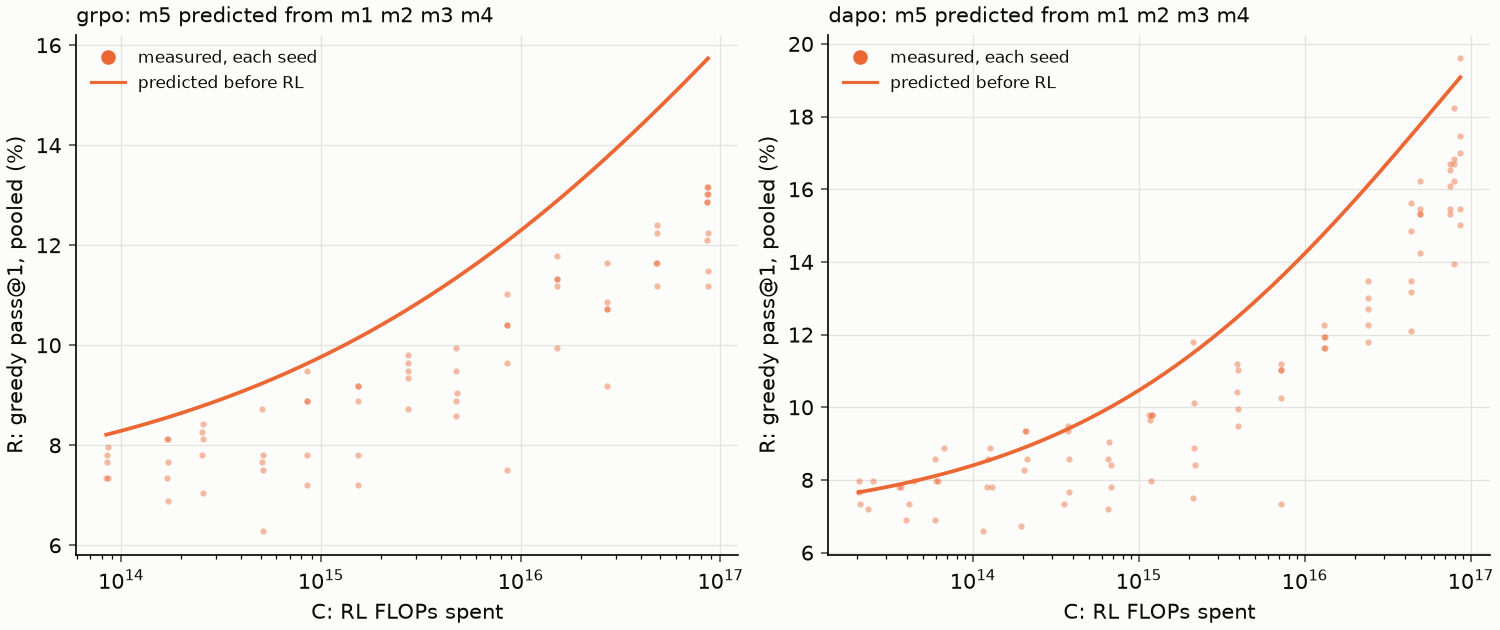
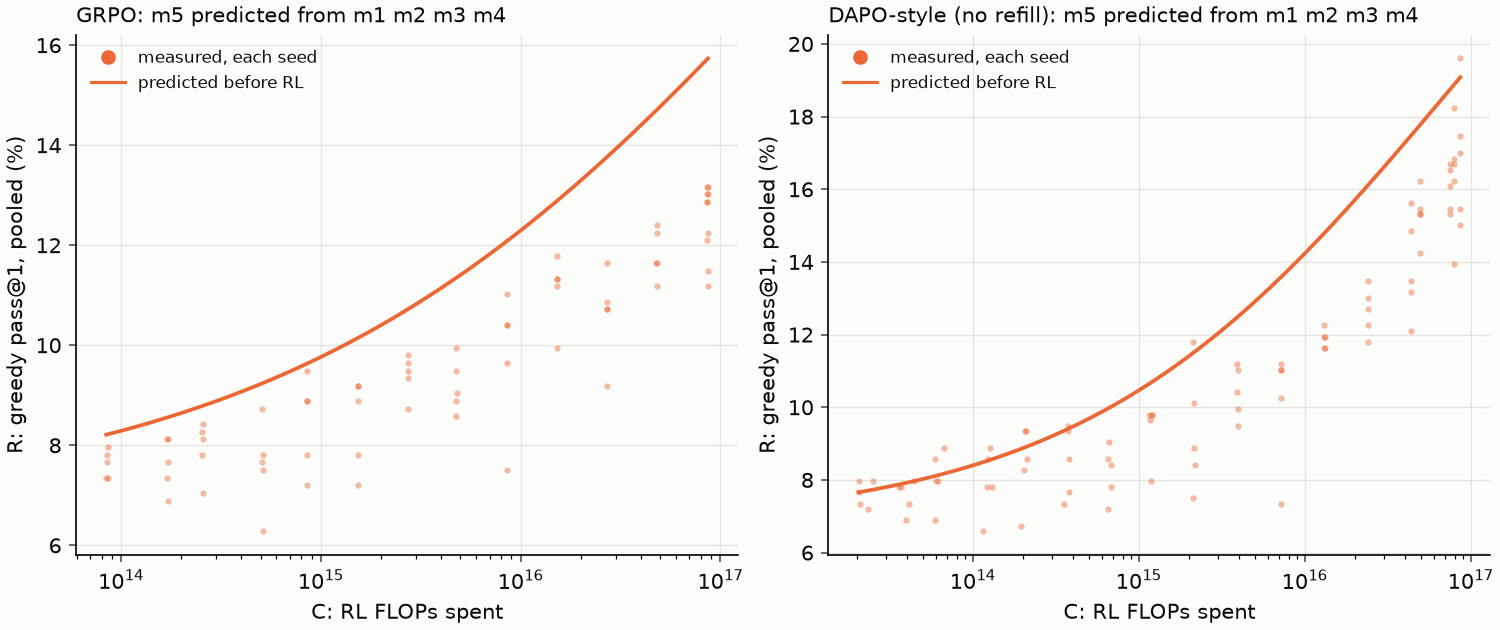
m4s24: Write-up 2 names its DAPO a variant; backtest, power and bootstrap corrections

Changed region(s): [[0.552, 0.0, 0.9507, 0.0603], [0.0307, 0.0, 0.3373, 0.0603]]

diff --git a/src/scalelab/analysis/scalingreport.py b/src/scalelab/analysis/scalingreport.py
@@ -27,6 +27,14 @@ MEASURE_NAMES = {"samples": "samples", "flops": "FLOPs", "seconds": "hours"}
 CURVE_POINTS = 200  # where a curve is drawn, evenly spaced in log C
 R_LABEL = "R: greedy pass@1, pooled (%)"
 C_LABEL = "C: RL FLOPs spent"
+# m4s24: what the figures call each algorithm. Our dapo drops the groups whose answers all
+# score the same without sampling more to refill the batch, as the DAPO paper does: a variant.
+ALGO_NAMES = {
+    "grpo": "GRPO",
+    "dr_grpo": "Dr. GRPO",
+    "rloo": "RLOO",
+    "dapo": "DAPO-style (no refill)",
+}
 
 
 @dataclass(frozen=True)
@@ -39,6 +47,11 @@ class Study:
     names: Mapping[int, str]  # N -> the size's name
     family: Family
     held_out: Family
+
+
+def algo_name(algo: str) -> str:
+    """The figures' name for an algorithm preset; an unknown one keeps its own."""
+    return ALGO_NAMES.get(algo, algo)
 
 
 def by_size(runs: Sequence[SizedRun]) -> dict[int, list[SizedRun]]:
@@ -86,7 +99,7 @@ def curves_figure(studies: Sequence[Study]) -> Figure:
             color = shade(index, len(groups))
             draw_size(panel, study.family, runs, color)
             handles.append(Line2D([], [], color=color, marker="o", label=study.names[params]))
-        label(panel, f"{study.algo}: one family through {len(study.runs)} runs")
+        label(panel, f"{algo_name(study.algo)}: one family through {len(study.runs)} runs")
         panel.legend(handles=handles, frameon=False, labelcolor=INK, fontsize=8)
     return figure
 
@@ -100,7 +113,7 @@ def backtest_figure(studies: Sequence[Study]) -> Figure:
         largest = max(groups)
         draw_size(panel, study.held_out, groups[largest], ORANGE)
         smaller = " ".join(study.names[params] for params in groups if params != largest)
-        label(panel, f"{study.algo}: {study.names[largest]} predicted from {smaller}")
+        label(panel, f"{algo_name(study.algo)}: {study.names[largest]} predicted from {smaller}")
         handles = [
             Line2D([], [], color=ORANGE, marker="o", linestyle="", label="measured, each seed"),
             Line2D([], [], color=ORANGE, label="predicted before RL"),
@@ -146,7 +159,7 @@ def write_report(
 ) -> list[Path]:
     """report scaling's three figures in `out`; the versus one compares the second study's
     algorithm with the first's."""
-    base, other = (study.algo for study in studies)
+    base, other = (algo_name(study.algo) for study in studies)
     return [
         save_figure(curves_figure(studies), out / CURVES_FIGURE),
         save_figure(backtest_figure(studies), out / BACKTEST_FIGURE),

diff --git a/tests/unit/test_scalingreport.py b/tests/unit/test_scalingreport.py
@@ -9,6 +9,7 @@ from scalelab.analysis.scalingreport import (
     SIZE_SHADES,
     VERSUS_FIGURE,
     Study,
+    algo_name,
     by_size,
     shade,
     write_report,
@@ -58,3 +59,10 @@ def test_every_figure_is_saved_as_a_png(tmp_path: Path) -> None:
 def test_the_report_compares_exactly_two_algorithms(tmp_path: Path) -> None:
     with pytest.raises(ValueError):
         write_report([study("grpo")], {}, tmp_path)
+
+
+def test_the_figures_call_our_dapo_a_variant() -> None:
+    # m4s24: our dapo never refills the batch it filtered, so it is not the paper's DAPO
+    assert algo_name("dapo") == "DAPO-style (no refill)"
+    assert algo_name("grpo") == "GRPO"
+    assert algo_name("ppo") == "ppo"  # a preset without a name keeps its own

diff --git a/docs/writeups/02-scaling.md b/docs/writeups/02-scaling.md
@@ -9,15 +9,20 @@ ScaleLab M4, 2026-11-17. Figures: `scalelab report scaling` (see Reproduce).
   per size, and fitted **one family of sigmoid curves in compute** whose three parameters
   move linearly in log size. It fits all 50 runs to **1.4 pp (GRPO) and 1.6 pp (DAPO) rms**.
 - **The fit pins R where it was measured, not where it is going.** A seed bootstrap gives
-  R at each size's last compute to within about 1 pp, but the ceiling A spans about 50 pp
-  from m2 or m3 up (GRPO m3-m5 roughly 30-85%).
-- **Backtest: one rung up works, the next does not.** Fitted on m1-m3, the family predicts
-  m4 from its starting accuracy alone to 1.5 pp (GRPO) and 1.2 pp (DAPO) rms. Fitted on
-  m1-m4, it over-predicts m5 by about 3 pp at the end of the run (GRPO 15.7% predicted,
-  12.2% measured; DAPO 19.1% v 16.9%), outside the seed bootstrap's interval.
-- **DAPO beats GRPO at equal FLOPs (+3.6 to +7.0 pp at every size), and not at equal
-  samples** (-0.6 to +1.6 pp, every interval spans zero). Its win is the extra samples our
-  FLOP accounting lets it draw, not a better update per sample.
+  R at each size's last compute to within about 1 pp, but the ceiling A spans about 45 to
+  55 pp from m3 up (GRPO m3-m5 roughly 26-82%).
+- **Backtest: both held-out sizes miss at the end.** Fitted on m1-m3, the family predicts
+  m4 from its starting accuracy alone to 1.5 pp (GRPO) and 1.2 pp (DAPO) rms over its
+  trajectory, but under-predicts its last grading (GRPO 19.2% v 21.5% measured, DAPO 24.3%
+  v 25.1%). Fitted on m1-m4, it over-predicts m5 by about 3 pp at the end of the run (GRPO
+  15.7% v 12.2%, DAPO 19.1% v 16.9%). All four measured values fall outside the 95%
+  bootstrap interval for the predicted mean, which resamples seeds only: it is not a
+  predictive interval, and it leaves out the form's own uncertainty.
+- **DAPO beats GRPO at equal FLOPs (+3.6 to +7.0 pp at every size); at equal samples no
+  difference is detected** (-0.6 to +1.6 pp, every interval spans zero, but they allow up
+  to +3.3 pp). Equal FLOPs buys DAPO 2.2-3.4x the steps. Our DAPO is a variant (it never
+  refills the batch it filters: see Setup), and it differs from GRPO in five ways at once,
+  so this doesn't isolate any one of them.
 - None of this was pre-registered. The plan was to commit a prediction for two larger
   sizes before running them; those runs were cut, and the backtests stand in for them.
 
@@ -40,15 +45,24 @@ ScaleLab M4, 2026-11-17. Figures: `scalelab report scaling` (see Reproduce).
   **R** = greedy pass@1 over the two frozen eval sets pooled (653 problems). **R_0** = R
   before RL. At 20M tokens R_0 *falls* with size: a fixed token budget undertrains the
   bigger models.
-- **RL.** GRPO (clip 0.2, KL 0.04 to the warm start) and DAPO (clip 0.2/0.28, token-mean
-  loss, no KL, groups whose 8 answers all score the same dropped). 64 prompts x 8 answers a
-  step, constant lr 1e-5, fp16, one T4. Rewards: 1 for the right answer, 0 otherwise.
+- **RL.** GRPO (clip 0.2, KL 0.04 to the warm start, each answer's loss averaged, then
+  averaged over answers) and a DAPO-style variant (clip 0.2/0.28, token-mean loss, no KL, a
+  soft penalty for overlong answers, groups whose 8 answers all score the same dropped). The
+  DAPO paper samples more until the batch is full again; ours does not, so each update
+  learns from the groups that survive (about half at m1, a quarter at m5). "DAPO" below
+  means this variant. 64 prompts x 8 answers a step, constant lr 1e-5, fp16, one T4.
+  Rewards: 1 for the right answer, 0 otherwise.
 - **Budget.** Each size gets the FLOPs of 1000 GRPO steps as the cost model prices them
   (`rl.flops`: m1 1.3e15 to m5 8.7e16). A pilot at m1, m3 and m5 showed that none reached
   90% of its fitted ceiling by step 1000. GRPO runs about 1010-1020 steps on that budget;
-  DAPO 2233-3446, because a dropped group skips log-probs and training and is not billed.
+  DAPO 2233-3446: a dropped group's generation is billed, but it skips log-probs and
+  training, and DAPO has no KL reference pass (at m5 a DAPO step costs 2.5e13 FLOPs, a
+  GRPO step 8.5e13).
 - **Seeds.** A 10-seed study at m2 and m4 measured the seed spread of final R (sd 0.57 and
-  1.02 pp): five seeds give at least 88% power to see a 3 pp difference.
+  1.02 pp). Power: 20 times a size, the 10 seeds split at random into two arms of five,
+  matched in order as `versus` matches seed s with seed s, and the seeds-and-problems
+  bootstrap run on the per-problem differences. Mean 95% half-width 1.67 pp (m2), 1.87 pp
+  (m4); with SE = half-width / 1.96, power at 3 pp = Phi(3 / SE - 1.96): 94% and 88%.
 - **C** = the RL FLOPs a run has spent (sampling, log-probs, training), summed over steps.
   Gradings run at steps 0, 1, 2, 3, 6, 10, 18, 32, 56, 100 and every 100 after.
 
@@ -78,11 +92,11 @@ Six numbers fit every grading after step 0 of every run, seeds pooled, by least 
 | GRPO final R, measured | 41.2% | 26.9% | 23.1% | 21.5% | 12.2% |
 | GRPO, fitted | 41.0% | 27.3% | 23.0% | 20.0% | 14.6% |
 | GRPO A | 49.3% | 41.3% | 36.7% | 33.4% | 30.9% |
-| GRPO A, 95% interval | 45-76% | 38-73% | 33-82% | 29-87% | 26-85% |
+| GRPO A, 95% interval | 46-76% | 38-71% | 33-78% | 29-82% | 26-69% |
 | DAPO final R, measured | 46.8% | 34.0% | 29.2% | 25.1% | 16.9% |
 | DAPO, fitted | 46.8% | 35.1% | 28.5% | 24.1% | 16.8% |
 | DAPO A | 60.3% | 84.4% | 92.1% | 95.3% | 97.0% |
-| DAPO A, 95% interval | 55-68% | 64-92% | 52-97% | 42-99% | 35-99% |
+| DAPO A, 95% interval | 56-69% | 69-91% | 58-97% | 48-98% | 40-99% |
 
 *Intervals: 200 seed bootstraps (resample each size's seeds, refit). Residuals: GRPO 1.39
 pp rms over 350 gradings, DAPO 1.56 pp over 410.*
@@ -106,21 +120,22 @@ measured R_0 alone (`scalelab backtest`), and compare with its five seeds.
 
 | fitted on, predicted | algorithm | fit rms | held-out rms | bias | last R predicted [95%] | measured |
 |---|---|---:|---:|---:|---:|---:|
-| m1-m3, m4 | GRPO | 1.39 pp | 1.46 pp | -0.85 pp | | 21.5% |
-| m1-m3, m4 | DAPO | 1.66 pp | 1.23 pp | -0.02 pp | | 25.1% |
-| m1-m4, m5 | GRPO | 1.32 pp | 2.22 pp | +1.92 pp | 15.7% [15.5, 16.0] | 12.2% |
-| m1-m4, m5 | DAPO | 1.56 pp | 2.37 pp | +1.84 pp | 19.1% [18.6, 19.4] | 16.9% |
+| m1-m3, m4 | GRPO | 1.39 pp | 1.46 pp | -0.85 pp | 19.2% [18.9, 19.6] | 21.5% |
+| m1-m3, m4 | DAPO | 1.66 pp | 1.23 pp | -0.02 pp | 24.3% [23.7, 24.9] | 25.1% |
+| m1-m4, m5 | GRPO | 1.32 pp | 2.22 pp | +1.92 pp | 15.7% [15.4, 16.0] | 12.2% |
+| m1-m4, m5 | DAPO | 1.56 pp | 2.37 pp | +1.84 pp | 19.1% [17.9, 19.4] | 16.9% |
 
 *Held-out rms over every grading of the predicted size's five seeds; bias = predicted
 minus measured, averaged. The interval resamples the fitted sizes' seeds only, not the
 form, so it is narrow.*
 
-The m4 prediction is as good as the fit itself. The m5 prediction starts close (+0.6 pp at
-step 1 for GRPO) and drifts high as compute grows (+2.3 pp at step 100, +3.5 pp at the
-end). m4 to m5 is a smaller step in size (1.9x) than m3 to m4 (2.2x), so distance is not
-the cause. Our reading: m5 is the most undertrained warm start (lowest R_0, highest N per
-token), and nothing in the family knows about warm-start tokens. A prediction for larger
-models from this ladder would have been worse, not better.
+Over its whole trajectory the m4 prediction is as good as the fit itself, but at the last
+grading it falls short by 2.3 pp (GRPO) and 0.8 pp (DAPO), outside the seed interval. The
+m5 prediction starts close (+0.6 pp at step 1 for GRPO) and drifts high as compute grows
+(+2.3 pp at step 100, +3.5 pp at the end). m4 to m5 is a smaller step in size (1.9x) than
+m3 to m4 (2.2x), so distance is not the cause. Our hypothesis: m5 is the most undertrained
+warm start (lowest R_0, highest N per token), and nothing in the family knows about
+warm-start tokens. It is not tested here: one warm start a size, no token budget varied.
 
 ## DAPO against GRPO: what "equal" means
 
@@ -134,13 +149,19 @@ GRPO's final measure, then bootstraps the per-problem differences over seeds and
 | equal FLOPs | +5.6 [2.5, 8.6] | +7.0 [4.8, 9.3] | +6.1 [4.0, 8.2] | +3.6 [1.3, 6.2] | +4.7 [2.3, 7.1] |
 | equal samples | +0.7 [-2.1, 3.3] | +0.8 [-1.4, 2.9] | +1.6 [-0.1, 3.3] | -0.6 [-2.5, 1.4] | +0.4 [-1.3, 2.2] |
 
-At equal FLOPs DAPO wins at every size. But our FLOPs count what a step computes, and DAPO
-drops the groups whose answers all score alike (about two thirds of them) after sampling
-them: they skip log-probs and training, so they cost almost nothing in our accounting,
-while generation, which dominates an RL step's time at this scale
-([Write-up 1](01-cost-model.md)), still runs all 512 answers. Equal FLOPs buys DAPO
-2.2-3.4x the steps. Read at equal samples (GRPO's ~1017 steps against DAPO's 1000), the
-difference is gone at every size.
+At equal FLOPs DAPO wins at every size. Our FLOPs count what a step computes: DAPO's
+dropped groups are generated and billed, then skip log-probs and training, and DAPO has no
+KL reference pass either. Generation is a small share of the FLOPs (15% of a GRPO step at
+m5) but dominates the time at this scale: in these fp16 runs' own timings, 49% (m5) to 83%
+(m1) of a GRPO step and 71-86% of a DAPO step ([Write-up 1](01-cost-model.md) explains
+why). So equal FLOPs buys DAPO 2.2-3.4x the steps. In FLOP bookkeeping at m5, a GRPO step
+without its reference pass would cost 1.21x less, and the passes DAPO skips cover the
+remaining 2.8x; RLOO (no reference, no filtering) ran 1.21x GRPO's steps, as that predicts.
+That splits what the counter charged; it is not an ablation. Read at equal samples (GRPO's
+~1017 steps against DAPO's 1000; samples count every generated answer), no difference is
+detected at any size, though the intervals allow up to +3.3 pp. Clipping, KL, loss
+averaging and overlong shaping differ too, so isolating the filtering needs an ablation
+(GRPO plus filtering only) that was not run.
 
 Equal wall-clock time is the comparison a practitioner wants, and these runs cannot answer
 it. Per step DAPO is cheaper (m5: 1000 steps took 2.9-3.7 h, GRPO's 4.7-5.1 h), and its
@@ -172,6 +193,10 @@ case with seeds, intervals and a held-out size, not a new law.
   all chosen after the sweep's data existed.
 - **One warm start a size.** The size axis has one draw per size; RL seeds share it. R_0
   falls with size, so size and undertraining move together.
+- **A DAPO-style variant, five changes at once.** No refill, so DAPO's batch shrinks; and it
+  differs from GRPO in clipping, KL, loss averaging, overlong shaping and filtering.
+- **Pointwise intervals.** Five sizes compared, no correction for multiple comparisons; the
+  intervals cover RL seeds and eval problems, not warm-start variation.
 - **One task, one learning rate, one budget rule.** Multiplication at 4-5 digits (653
   problems), lr 1e-5 at every size, 1000 GRPO steps' FLOPs. A skill with unlimited
   supervised data is an odd target for RL; it was chosen because it is cheap to verify.
@@ -196,8 +221,8 @@ DAPO run ids in `$GRPO` and `$DAPO`:
 
 ```bash
 uv run scalelab report scaling $GRPO $DAPO --out docs/writeups/figs
-uv run scalelab joint $GRPO --bootstrap 200
-uv run scalelab backtest $GRPO --bootstrap 200
+uv run scalelab joint $GRPO --bootstrap 4000
+uv run scalelab backtest $GRPO --bootstrap 4000
 uv run scalelab versus $DAPO --against $GRPO --at samples
 uv run scalelab power $GRPO
 ```

diff --git a/docs/walkthrough.md b/docs/walkthrough.md
@@ -180,8 +180,9 @@ m5 dapo: experiment bc652cd7a72d1ce9 at 0413a34f
   arithmetic-4/*    316   13.6%   31.3%  +17.7 [+12.5, +23.2] pp   +17.3 [+12.0, +23.6] pp   improved
 ```
 
-DAPO looks twice as good. Both had the same FLOPs budget, but DAPO skips the training passes of
-groups that teach nothing, so it ran 3.4 times the steps. Compare the five seeds pair by pair,
+DAPO looks twice as good. Both had the same FLOPs budget, but DAPO (here a variant that drops
+groups whose answers all score the same without refilling the batch) skips their log-prob and
+training passes, so it ran 3.4 times the steps. Compare the five seeds pair by pair,
 first at equal FLOPs, then at equal samples:
 
 ```bash
@@ -194,8 +195,8 @@ m5: other - base +4.69 pp [+2.30, +7.11], 5 seeds x 653 problems, 95%
 m5: other - base +0.43 pp [-1.29, +2.17], 5 seeds x 653 problems, 95%
 ```
 
-At equal FLOPs DAPO wins by 4.7 pp; given the same number of sampled answers, it doesn't. Its
-win is more samples for the same compute, not more learning per sample.
+At equal FLOPs DAPO wins by 4.7 pp; given the same number of sampled answers, no difference is
+detected. Most of its win comes with running more steps on the same compute.
 
 ## Where next
 

diff --git a/README.md b/README.md
@@ -19,9 +19,10 @@ so its results are about method at small scale, not claims about frontier models
   A calibrated FLOP and memory model predicts held-out RL steps to 4.1% on a T4 (13.2% on an
   A100). At this scale RL's bottleneck is generation's kernel launches, not arithmetic.
 - [Write-up 2: how RL gains scale with model size, and how far one fit predicts](docs/writeups/02-scaling.md).
-  One family of sigmoid curves fits 50 runs (five sizes, five seeds, GRPO and DAPO) to about
-  1.5 pp. Fitted on the three smallest sizes it predicts the fourth to 1.5 pp; fitted on four
-  it over-predicts the fifth by about 3 pp. DAPO beats GRPO at equal FLOPs, not at equal samples.
+  One family of sigmoid curves fits 50 runs (five sizes, five seeds, GRPO and a DAPO-style
+  variant) to about 1.5 pp, but held-out sizes miss at the end: fitted on three sizes it
+  under-predicts the fourth by up to 2.3 pp, fitted on four it over-predicts the fifth by up
+  to 3.5 pp. DAPO beats GRPO at equal FLOPs; at equal samples no difference is detected.
 
 ## The data
 

diff --git a/CHANGELOG.md b/CHANGELOG.md
@@ -4,6 +4,17 @@ Every release of ScaleLab, newest first. The format follows
 [Keep a Changelog](https://keepachangelog.com/en/1.1.0/) and versions follow
 [Semantic Versioning](https://semver.org/).
 
+## [Unreleased]
+
+### Fixed
+
+- Write-up 2 now calls its DAPO what it is, a DAPO-style variant that drops flat groups without
+  refilling the batch; says a dropped group's generation is billed; reports the m4 backtest's
+  predicted values (it misses at the last grading too); reads equal samples as "no difference
+  detected"; states how the power estimate was made; and its figures name the algorithms.
+- The README and the walkthrough say the same.
+
+
 ## [1.0.0] - 2026-11-19
 
 The first release: the measurement lab behind Write-ups 1 and 2 and the
